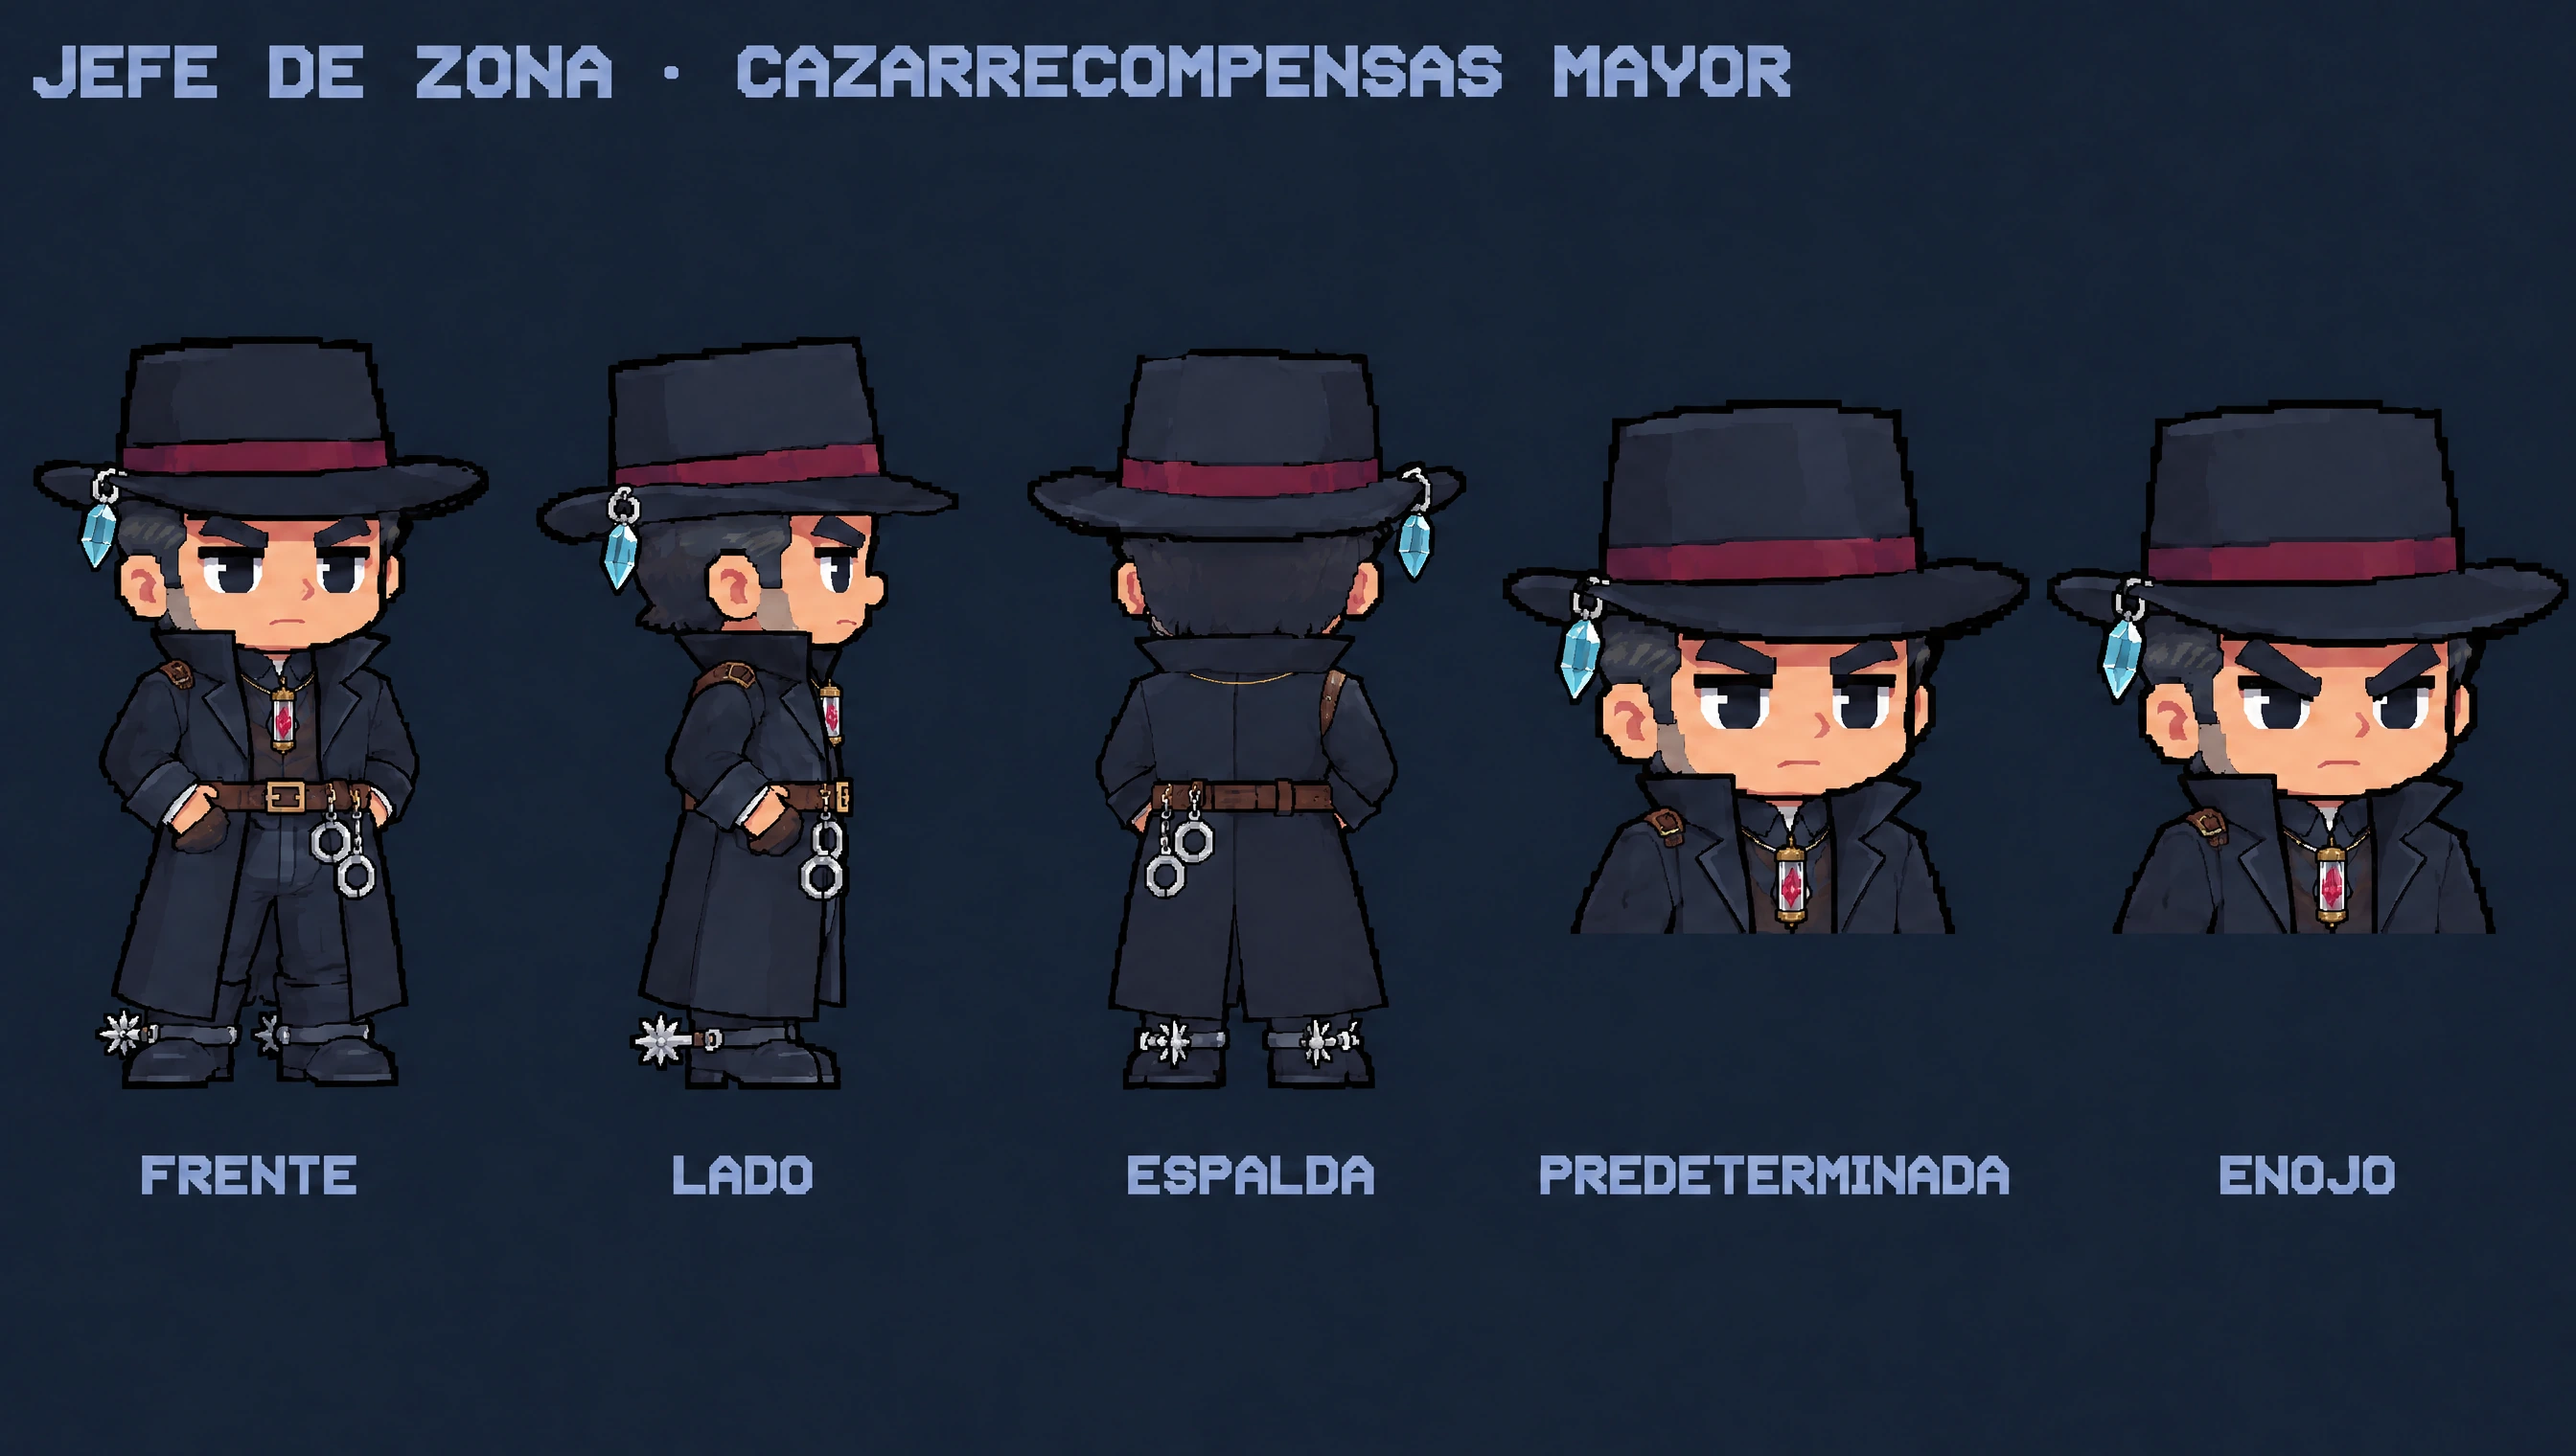
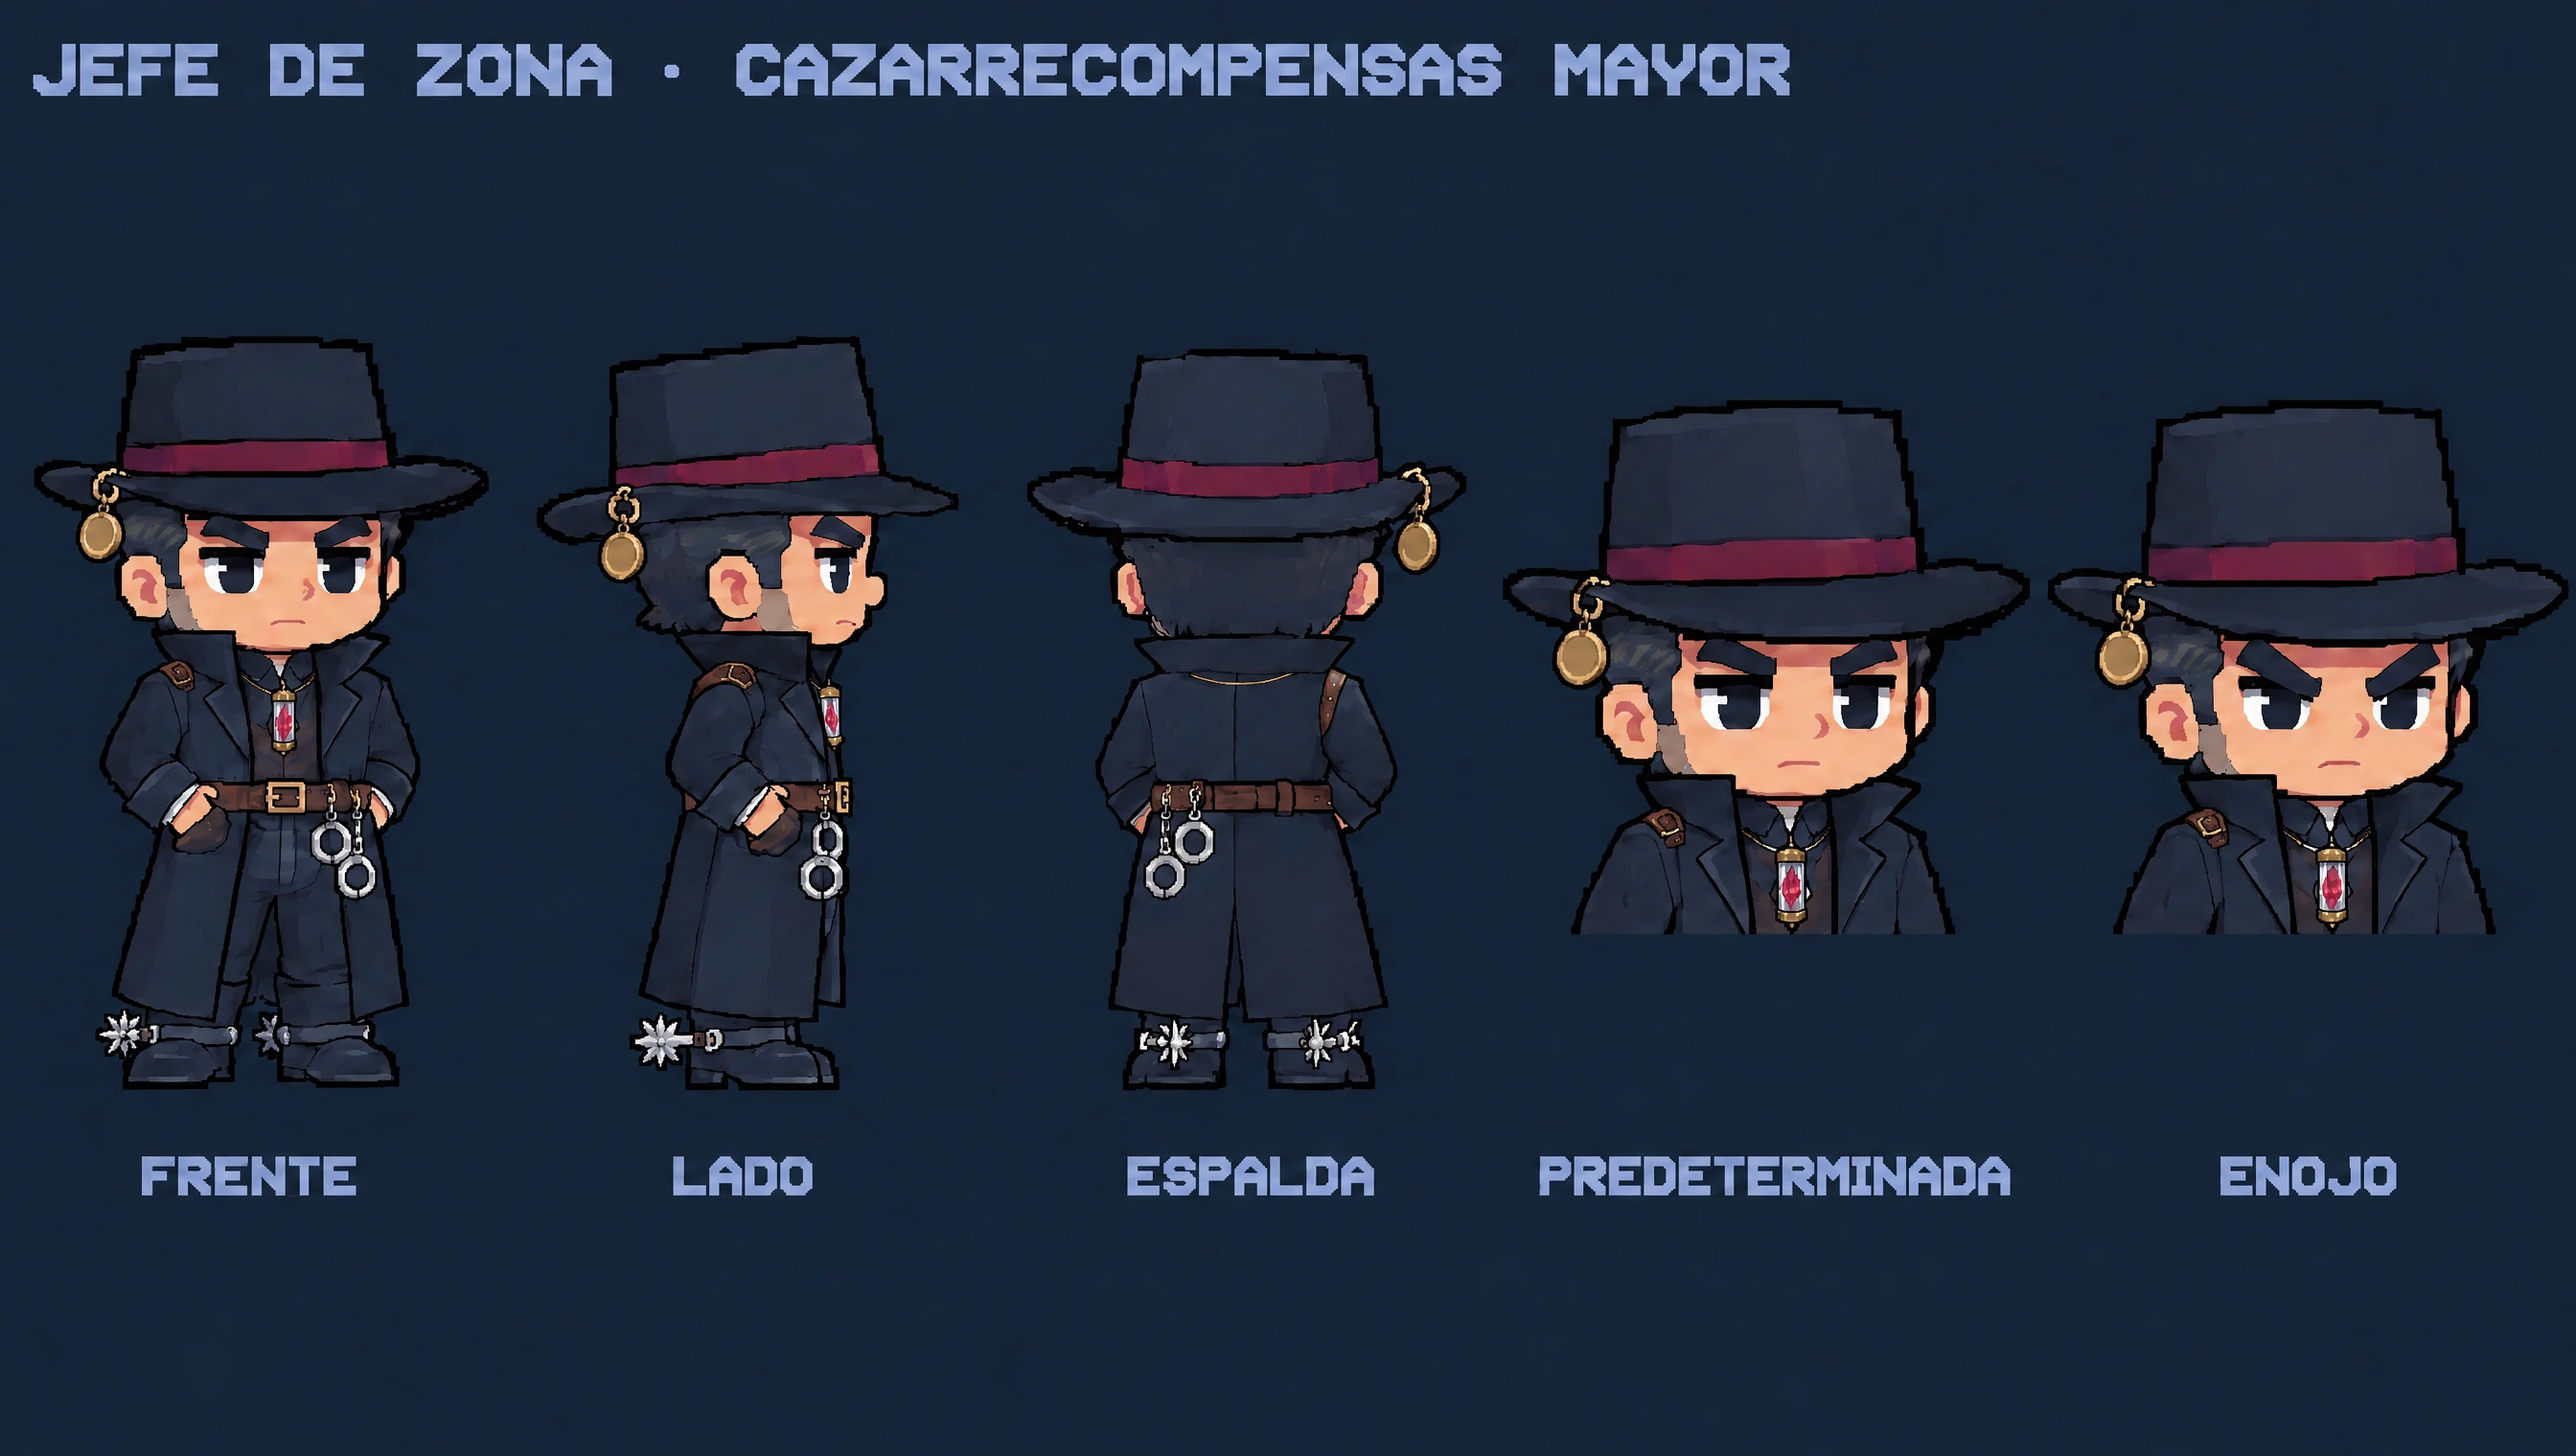
docs(arte): F0-69 cambia el cristal cian del sombrero del cazarrecompensas por un medallón de latón

diff --git a/studio/docs/12-direccion-de-arte.md b/studio/docs/12-direccion-de-arte.md
@@ -155,10 +155,10 @@ El juego es **horizontal (landscape)**. Catorce imágenes en `studio/assets-ref/
 | Cañón Ferroso | Cabecilla de la banda rival | Pañuelo rojo, gabán naranja óxido, hombreras de hierro remachadas, cinturón de cadena y garrote liso en la mano derecha apoyado en el suelo |
 | Minas de Sierra Alta | Jefe de seguridad del Consorcio | Abrigo azul pizarra con cuello de piel, gorra con gafas de aviador subidas, brazalete vinotinto y porra |
 | Salares del Litoral | Aduanero Mayor | Uniforme beige manchado de sal, banda vinotinta, medalla de latón, libro de registro y sello |
-| Cavernas de Cristal | Cazarrecompensas Mayor | Gabán carbón, sombrero con cristal cian, grilletes en el cinturón, espuelas y, en el collar, una cápsula de cristal sellada con un fragmento de éter a la vista |
+| Cavernas de Cristal | Cazarrecompensas Mayor | Gabán carbón, sombrero con medallón de latón, grilletes en el cinturón, espuelas y, en el collar, una cápsula de cristal sellada con un fragmento de éter a la vista |
 | La Fosa del Éter | Coronel de la Comisión | Capote verde oliva oscuro, banda vinotinta, charreteras doradas, gorra con estrella dorada de metal, guantes blancos y bastón negro |
 
-✅ **Regla del éter en el arte:** el éter nunca va suelto sobre el cuerpo de un personaje sano. Solo aparece contenido en una cápsula de cristal sellada, o en los mutados de La Fosa.
+✅ **Regla del éter en el arte:** el éter nunca va suelto sobre el cuerpo de un personaje sano. Solo aparece contenido en una cápsula de cristal sellada, o en los mutados de La Fosa. El cian de la paleta es el aura del éter, así que tampoco se usa en adornos de personajes sanos.
 
 El ministro Dueñas sigue siendo el antagonista narrativo y no tiene duelo de jefe.
 
